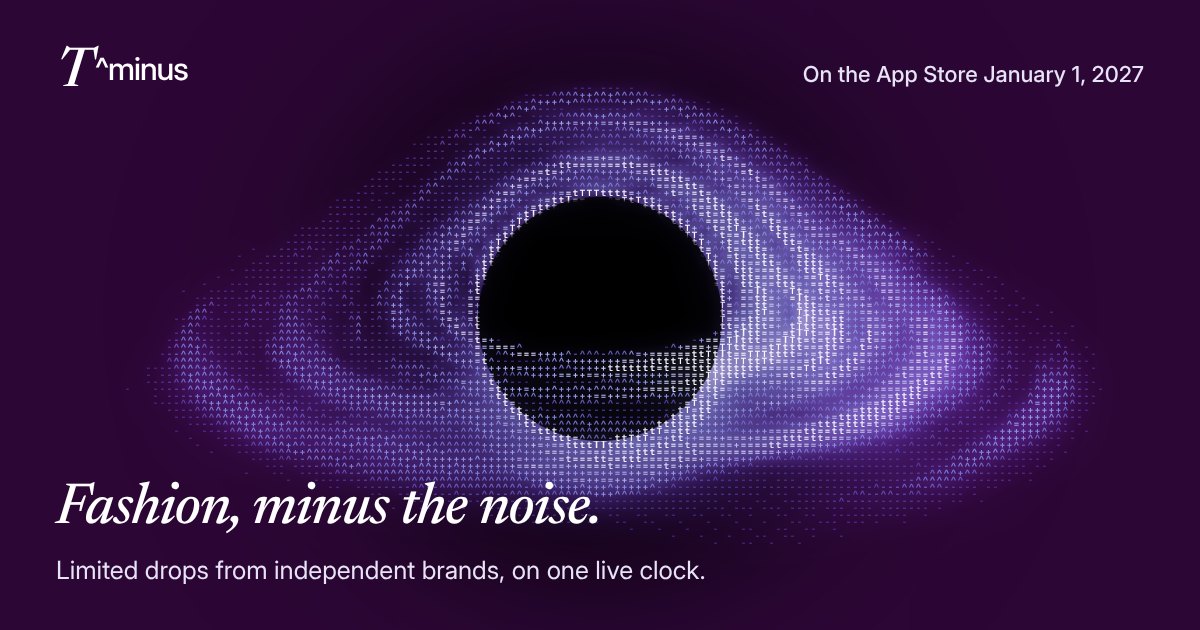
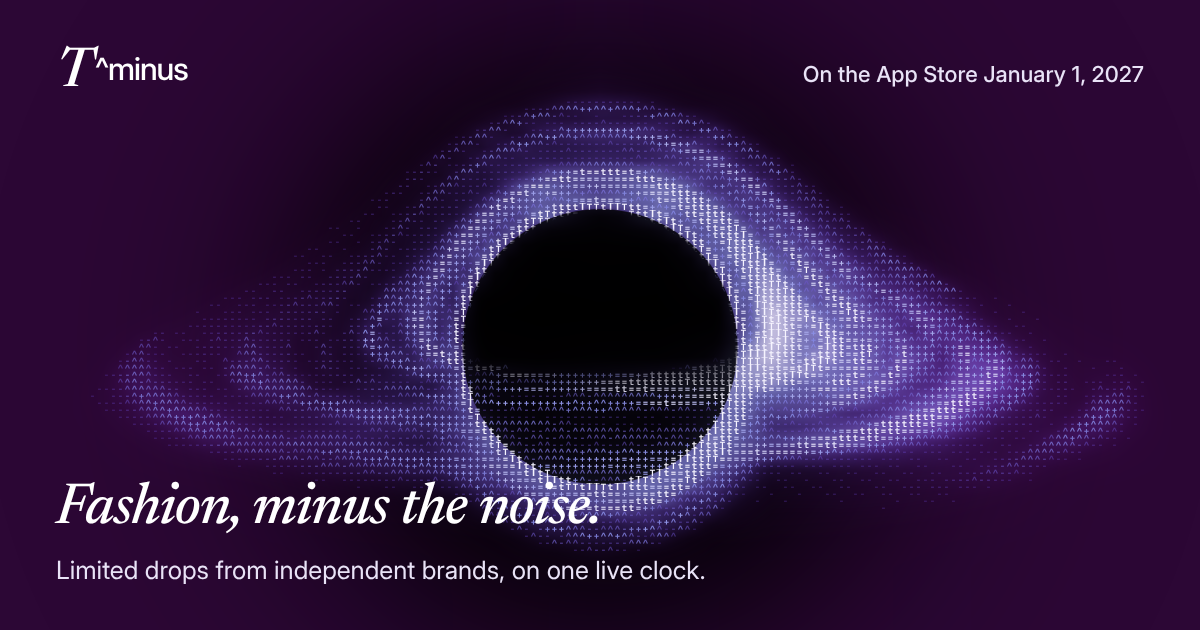
Make the waitlist endpoint a setting; refresh the social image
Claude-Session: https://claude.ai/code/session_01RZrpDxEBhV8xC3ZeVXHHi1

Changed region(s): [[0.0925, 0.1206, 0.9558, 0.8746]]

diff --git a/src/components/landing/waitlist-form.tsx b/src/components/landing/waitlist-form.tsx
@@ -8,7 +8,7 @@ import {
   normalizePhoneToE164,
   type WaitlistRole,
 } from "@/lib/waitlist";
-import { SMS_PROGRAM, WAITLIST_PERK, siteUrl } from "@/lib/launch";
+import { SMS_PROGRAM, WAITLIST_ENDPOINT, WAITLIST_PERK, siteUrl } from "@/lib/launch";
 
 /** The waitlist incentive, as one plain line. Renders nothing when no perk is set. */
 export function PerkLine({ className = "" }: { className?: string }) {
@@ -114,7 +114,7 @@ export function WaitlistForm({
     }
     setBusy(true);
     try {
-      const res = await fetch("/api/waitlist", {
+      const res = await fetch(WAITLIST_ENDPOINT, {
         method: "POST",
         headers: { "Content-Type": "application/json" },
         body: JSON.stringify({

diff --git a/src/lib/launch.ts b/src/lib/launch.ts
@@ -27,6 +27,13 @@ export const SMS_PROGRAM = {
 /** App Store listing. Empty until the listing exists; the page shows a button at zero when set. */
 export const APP_STORE_URL = "";
 
+/**
+ * Where the form posts. The built-in endpoint only exists on a Node server;
+ * a static deployment sets NEXT_PUBLIC_WAITLIST_ENDPOINT to its own.
+ */
+export const WAITLIST_ENDPOINT =
+  process.env.NEXT_PUBLIC_WAITLIST_ENDPOINT ?? "/api/waitlist";
+
 /** Base path the site is served under ("" at a domain root, "/t-minus-landing" on GitHub Pages). */
 export const BASE_PATH = process.env.NEXT_PUBLIC_BASE_PATH ?? "";
 
